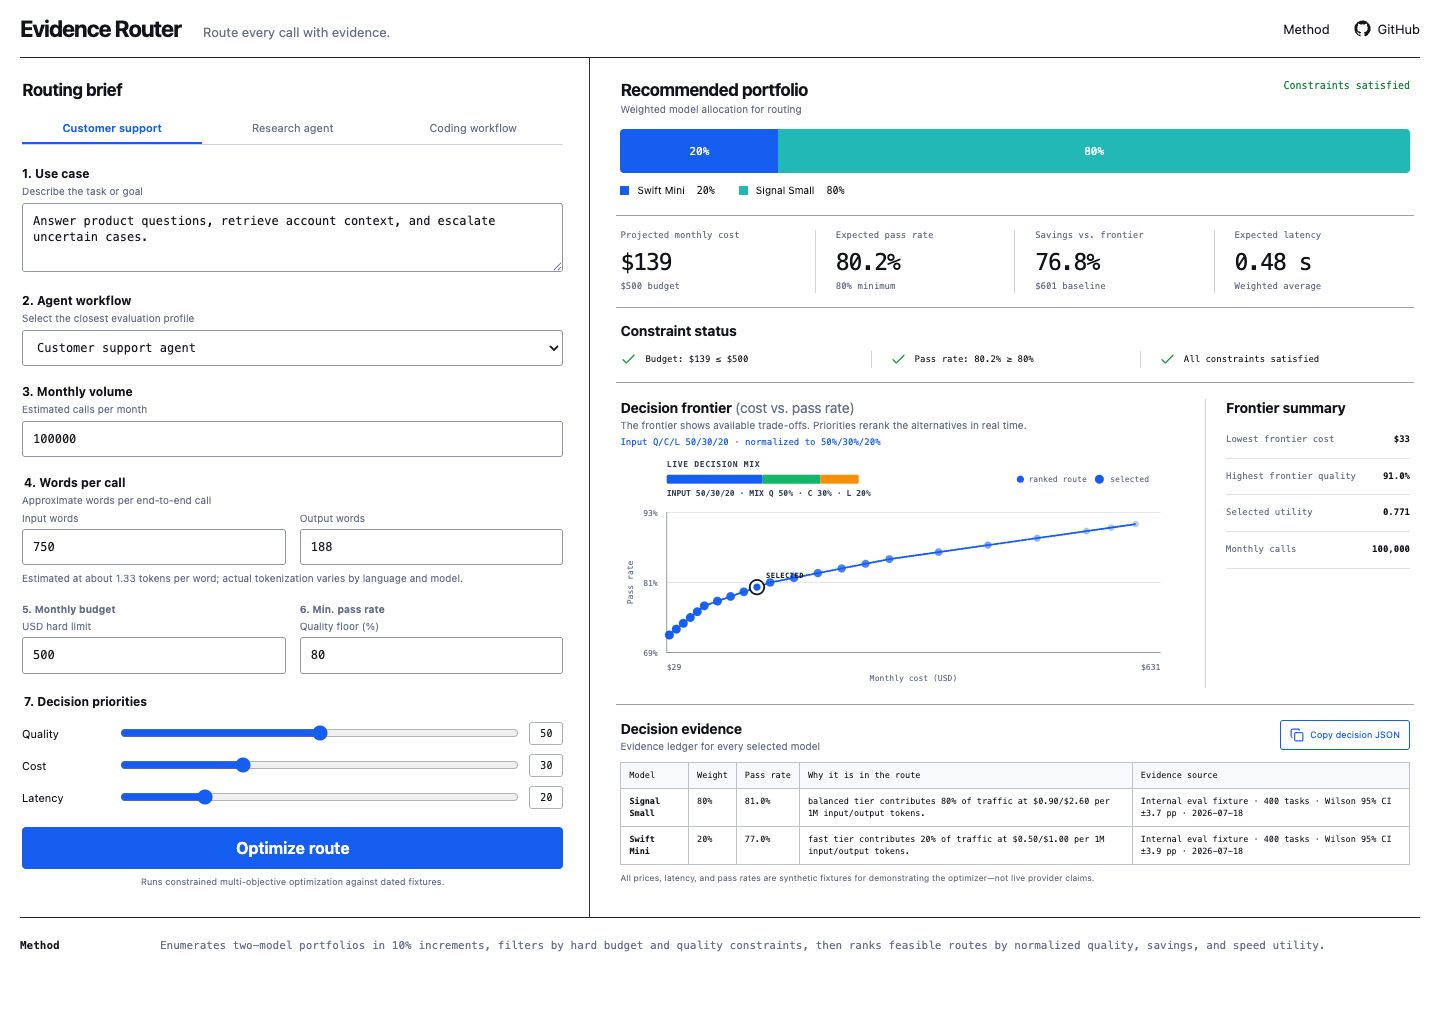
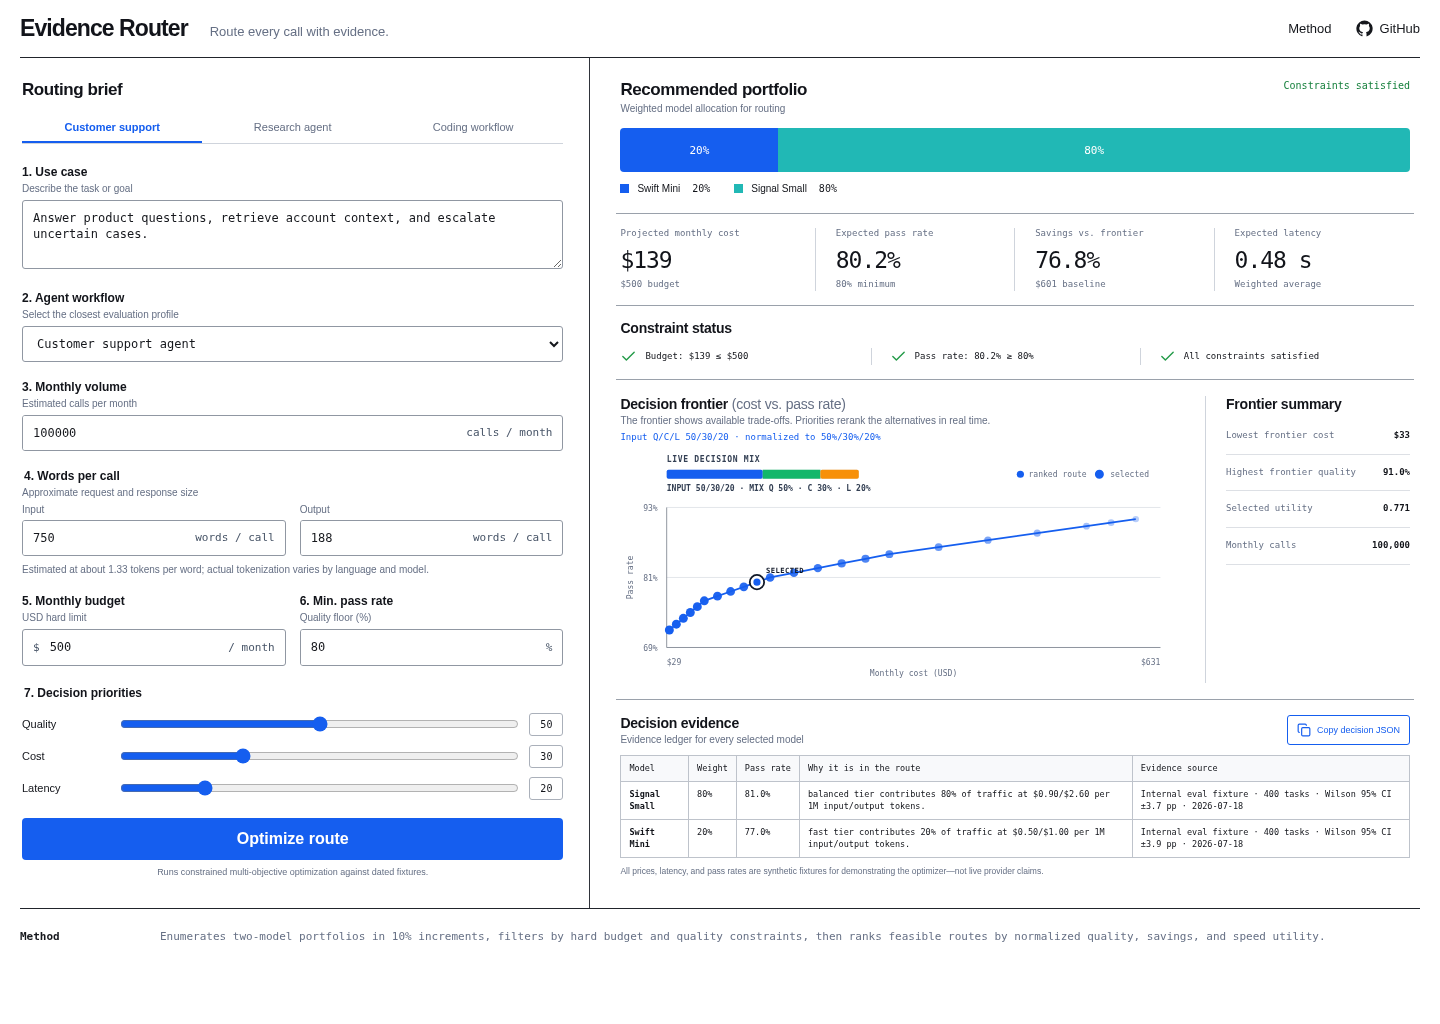
fix: clarify and validate numeric routing inputs

diff --git a/src/components/InputPanel.tsx b/src/components/InputPanel.tsx
@@ -1,3 +1,4 @@
+import { useEffect, useId, useState } from 'react'
 import type { Dispatch, SetStateAction } from 'react'
 import type { RoutingInput, Workflow } from '../types'
 import { PRESETS } from '../data/presets'
@@ -11,11 +12,87 @@ interface InputPanelProps {
   onOptimize: () => void
 }
 
+interface BoundedNumberInputProps {
+  value: number
+  onValueChange: (value: number) => void
+  ariaLabel: string
+  min: number
+  max?: number
+  prefix?: string
+  suffix: string
+}
+
+function BoundedNumberInput({
+  value,
+  onValueChange,
+  ariaLabel,
+  min,
+  max,
+  prefix,
+  suffix,
+}: BoundedNumberInputProps) {
+  const [draft, setDraft] = useState(String(value))
+  const errorId = useId()
+  const parsed = Number(draft)
+  const isEmpty = draft.trim() === ''
+  const isFinite = Number.isFinite(parsed)
+  const isBelowMin = isFinite && parsed < min
+  const isAboveMax = isFinite && max !== undefined && parsed > max
+  const isInvalid = isEmpty || !isFinite || isBelowMin || isAboveMax
+  const error = isEmpty || !isFinite
+    ? 'Enter a number.'
+    : isBelowMin
+      ? `Use ${min} or more.`
+      : isAboveMax
+        ? `Use ${max} or less.`
+        : ''
+
+  useEffect(() => {
+    setDraft(String(value))
+  }, [value])
+
+  const update = (nextDraft: string) => {
+    setDraft(nextDraft)
+    const nextValue = Number(nextDraft)
+    if (
+      nextDraft.trim() !== '' &&
+      Number.isFinite(nextValue) &&
+      nextValue >= min &&
+      (max === undefined || nextValue <= max)
+    ) {
+      onValueChange(nextValue)
+    }
+  }
+
+  return (
+    <>
+      <span className={`number-control${isInvalid ? ' invalid' : ''}`}>
+        {prefix && <span className="number-affix" aria-hidden="true">{prefix}</span>}
+        <input
+          type="number"
+          min={min}
+          max={max}
+          step="1"
+          inputMode="numeric"
+          value={draft}
+          aria-label={ariaLabel}
+          aria-invalid={isInvalid}
+          aria-describedby={isInvalid ? errorId : undefined}
+          onChange={(event) => update(event.target.value)}
+          onBlur={() => {
+            if (isInvalid) setDraft(String(value))
+          }}
+        />
+        <span className="number-affix suffix" aria-hidden="true">{suffix}</span>
+      </span>
+      {isInvalid && <span className="field-error" id={errorId} role="alert">{error}</span>}
+    </>
+  )
+}
+
 export function InputPanel({ input, setInput, selectedPreset, onPreset, onOptimize }: InputPanelProps) {
   const patch = <K extends keyof RoutingInput>(key: K, value: RoutingInput[K]) =>
     setInput((current) => ({ ...current, [key]: value }))
-  const number = (key: keyof Pick<RoutingInput, 'monthlyCalls' | 'inputWordsPerCall' | 'outputWordsPerCall' | 'monthlyBudget'>, value: string) =>
-    patch(key, Math.max(0, Number(value)))
   const priority = (key: keyof RoutingInput['priorities'], value: string) =>
     setInput((current) => ({ ...current, priorities: { ...current.priorities, [key]: Number(value) } }))
 
@@ -50,15 +127,39 @@ export function InputPanel({ input, setInput, selectedPreset, onPreset, onOptimi
       <label className="field wide">
         <span className="field-index">3. Monthly volume</span>
         <span className="field-help">Estimated calls per month</span>
-        <input type="number" min="1" value={input.monthlyCalls} onChange={(event) => number('monthlyCalls', event.target.value)} />
+        <BoundedNumberInput
+          value={input.monthlyCalls}
+          onValueChange={(value) => patch('monthlyCalls', value)}
+          ariaLabel="Monthly volume"
+          min={1}
+          suffix="calls / month"
+        />
       </label>
 
       <fieldset className="field wide">
         <legend className="field-index">4. Words per call</legend>
-        <span className="field-help">Approximate words per end-to-end call</span>
+        <span className="field-help">Approximate request and response size</span>
         <div className="paired-inputs">
-          <label><span>Input words</span><input type="number" min="1" value={input.inputWordsPerCall} onChange={(event) => number('inputWordsPerCall', event.target.value)} /></label>
-          <label><span>Output words</span><input type="number" min="1" value={input.outputWordsPerCall} onChange={(event) => number('outputWordsPerCall', event.target.value)} /></label>
+          <label>
+            <span className="subfield-label">Input</span>
+            <BoundedNumberInput
+              value={input.inputWordsPerCall}
+              onValueChange={(value) => patch('inputWordsPerCall', value)}
+              ariaLabel="Input words"
+              min={1}
+              suffix="words / call"
+            />
+          </label>
+          <label>
+            <span className="subfield-label">Output</span>
+            <BoundedNumberInput
+              value={input.outputWordsPerCall}
+              onValueChange={(value) => patch('outputWordsPerCall', value)}
+              ariaLabel="Output words"
+              min={1}
+              suffix="words / call"
+            />
+          </label>
         </div>
         <span className="field-help word-estimate-note">{WORD_USAGE_ESTIMATE_NOTE}</span>
       </fieldset>
@@ -67,12 +168,26 @@ export function InputPanel({ input, setInput, selectedPreset, onPreset, onOptimi
         <label className="field">
           <span className="field-index">5. Monthly budget</span>
           <span className="field-help">USD hard limit</span>
-          <input type="number" min="1" value={input.monthlyBudget} onChange={(event) => number('monthlyBudget', event.target.value)} />
+          <BoundedNumberInput
+            value={input.monthlyBudget}
+            onValueChange={(value) => patch('monthlyBudget', value)}
+            ariaLabel="Monthly budget"
+            min={1}
+            prefix="$"
+            suffix="/ month"
+          />
         </label>
         <label className="field">
           <span className="field-index">6. Min. pass rate</span>
           <span className="field-help">Quality floor (%)</span>
-          <input type="number" min="1" max="100" value={Math.round(input.passRateFloor * 100)} onChange={(event) => patch('passRateFloor', Number(event.target.value) / 100)} />
+          <BoundedNumberInput
+            value={Math.round(input.passRateFloor * 100)}
+            onValueChange={(value) => patch('passRateFloor', value / 100)}
+            ariaLabel="Minimum pass rate"
+            min={1}
+            max={100}
+            suffix="%"
+          />
         </label>
       </div>
 

diff --git a/src/styles.css b/src/styles.css
@@ -28,7 +28,15 @@ h3 { font-size: 14px; letter-spacing: -0.015em; }
 .field input, .field textarea, .field select, .paired-inputs input { width: 100%; border: 1px solid #9097a2; border-radius: 3px; background: #fff; padding: 9px 10px; font: 12px/1.35 ui-monospace, SFMono-Regular, Menlo, monospace; color: #16181d; }
 .field textarea { resize: vertical; min-height: 68px; }
 .paired-inputs { display: grid; grid-template-columns: 1fr 1fr; gap: 14px; }
-.paired-inputs label > span { display: block; color: var(--muted); font-size: 10px; margin-bottom: 5px; }
+.subfield-label { display: block; color: var(--muted); font-size: 10px; margin-bottom: 5px; }
+.number-control { width: 100%; min-width: 0; display: flex !important; align-items: center; overflow: hidden; border: 1px solid #9097a2; border-radius: 3px; background: #fff; }
+.number-control:focus-within { outline: 3px solid #b9d1ff; outline-offset: 2px; border-color: var(--blue); }
+.number-control.invalid { border-color: #d92d20; }
+.number-control input { min-width: 0; border: 0; border-radius: 0; padding: 9px 10px; }
+.number-control input:focus-visible { outline: 0; }
+.number-affix { flex: none; padding-left: 10px; color: #475467; font: 11px/1 ui-monospace, SFMono-Regular, Menlo, monospace; }
+.number-affix.suffix { padding: 0 10px 0 6px; white-space: nowrap; }
+.field-error { display: block; margin-top: 5px; color: #b42318; font-size: 10px; line-height: 1.35; }
 .major-pair .field { margin-bottom: 18px; }
 .priorities { margin-top: 2px; }
 .priority-row { display: grid; grid-template-columns: 88px 1fr 34px; gap: 8px; align-items: center; font-size: 11px; margin-top: 9px; }
